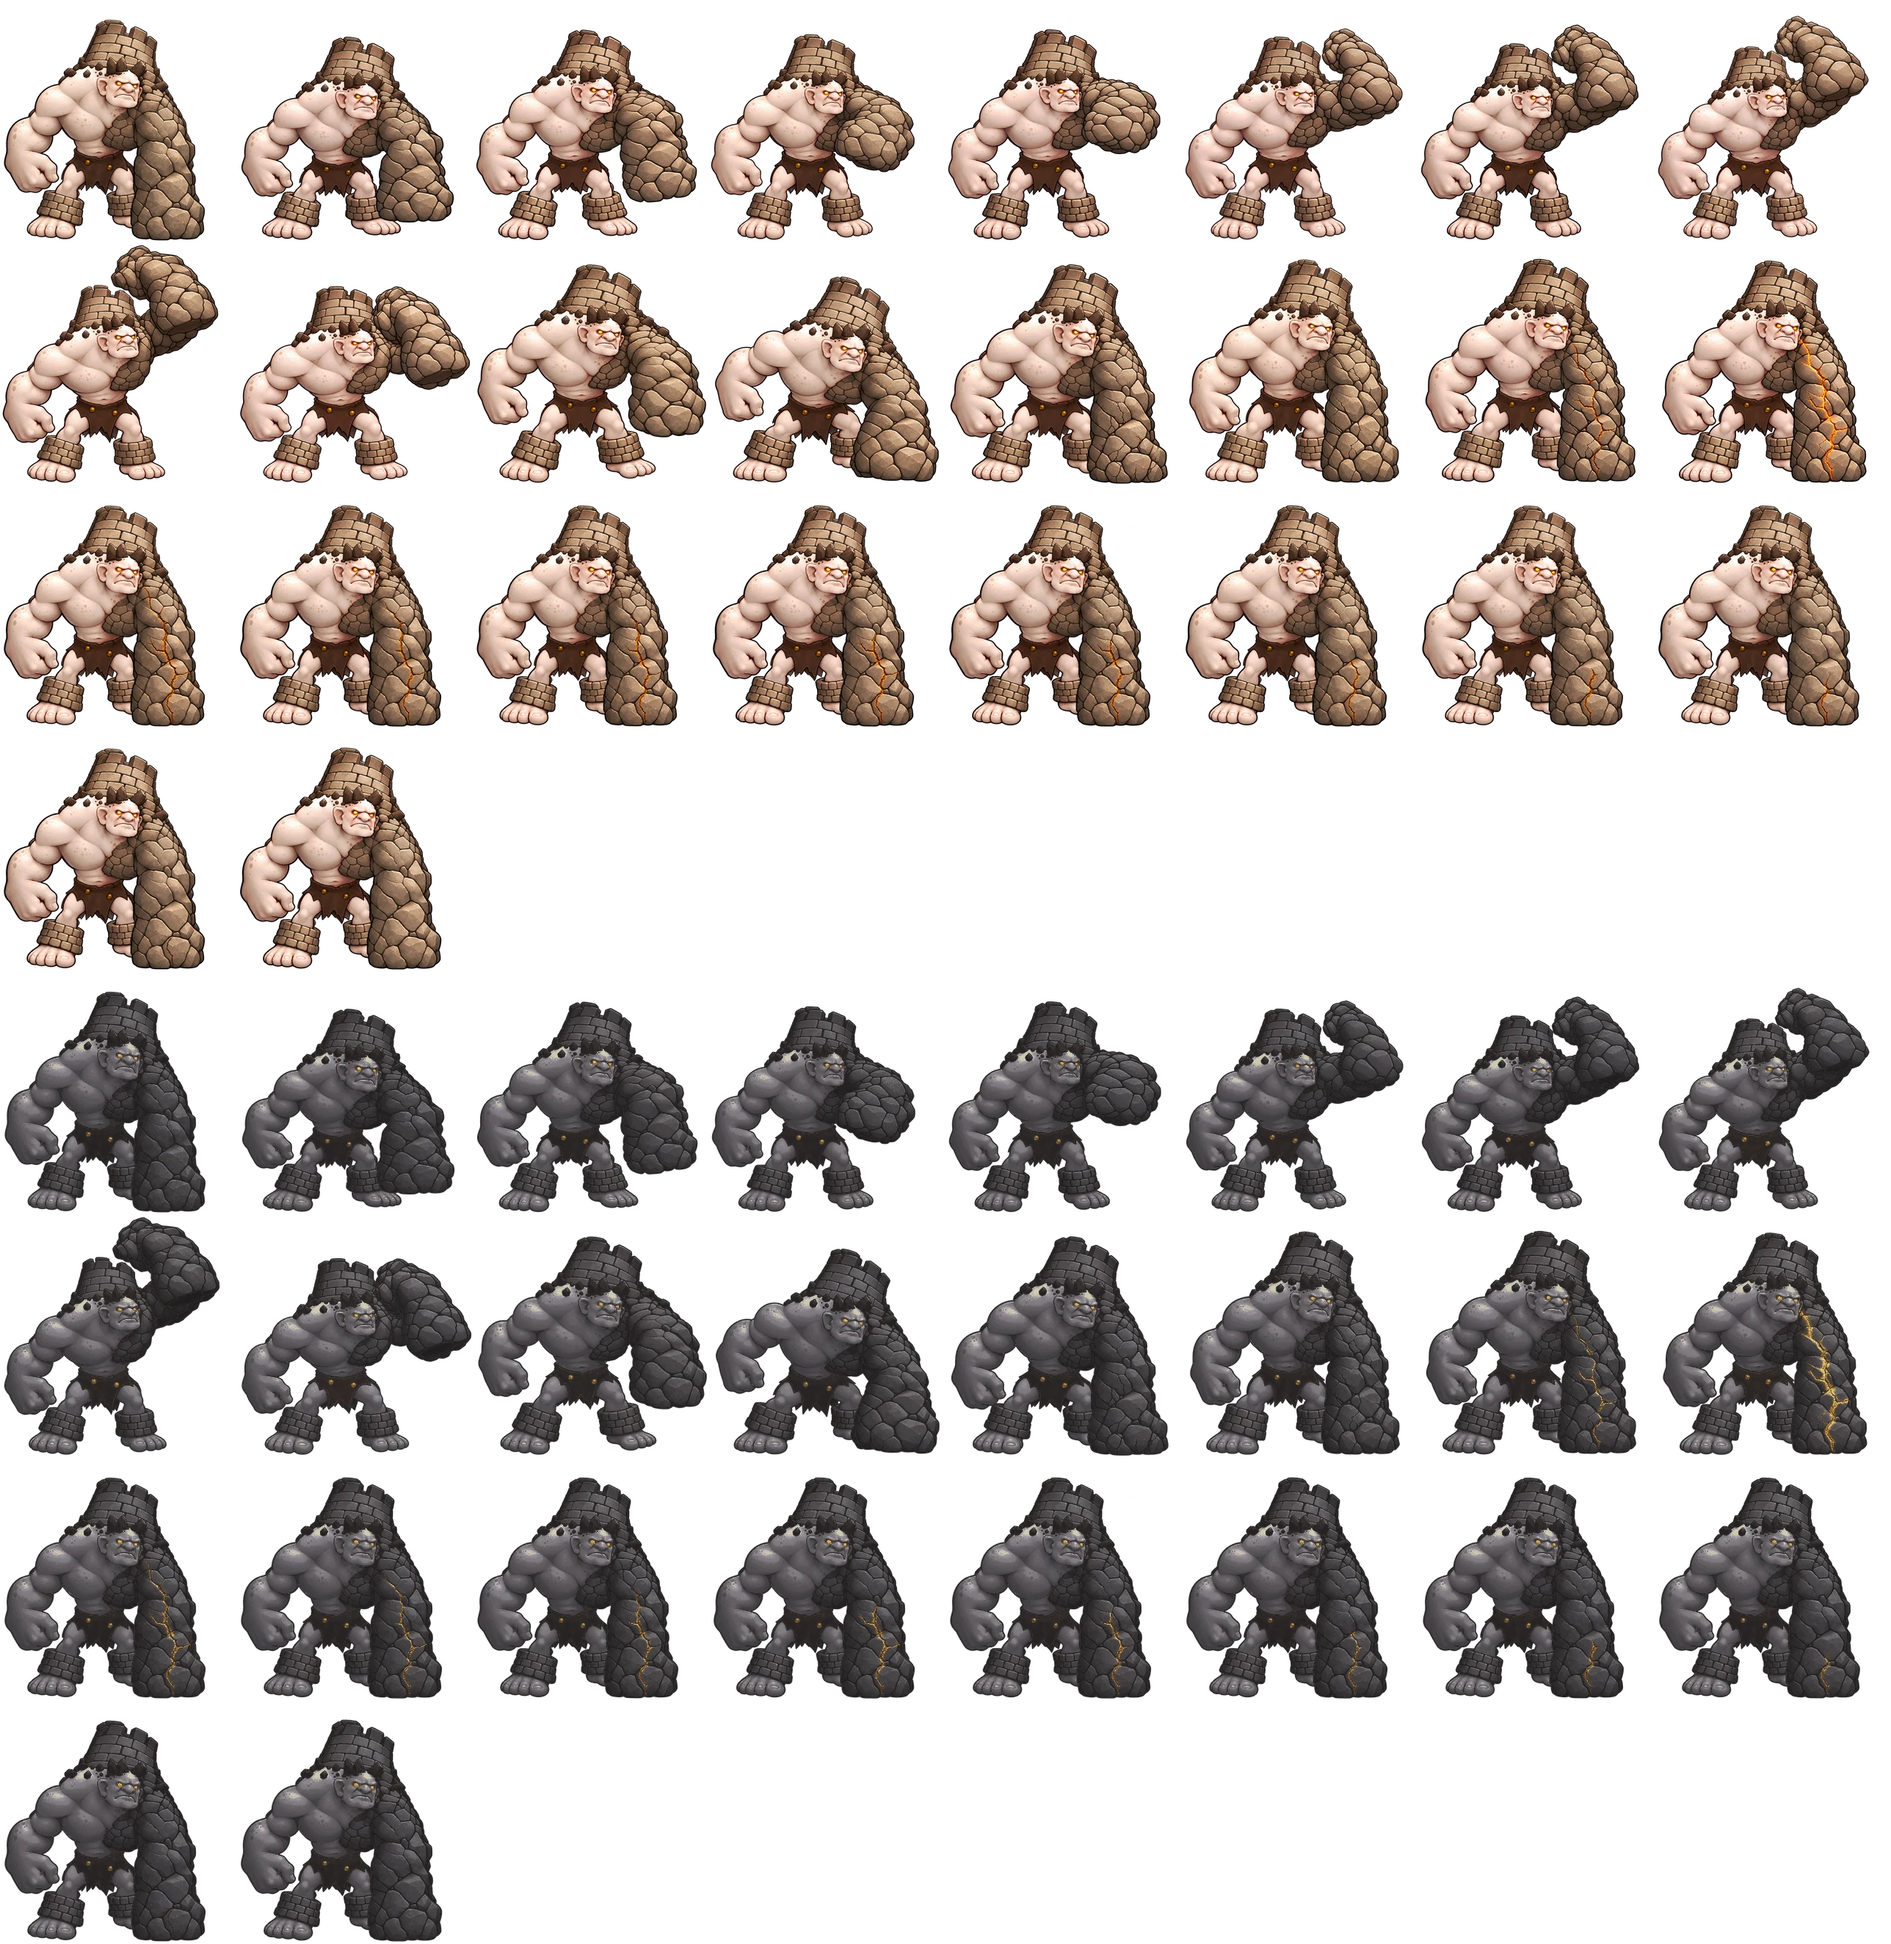
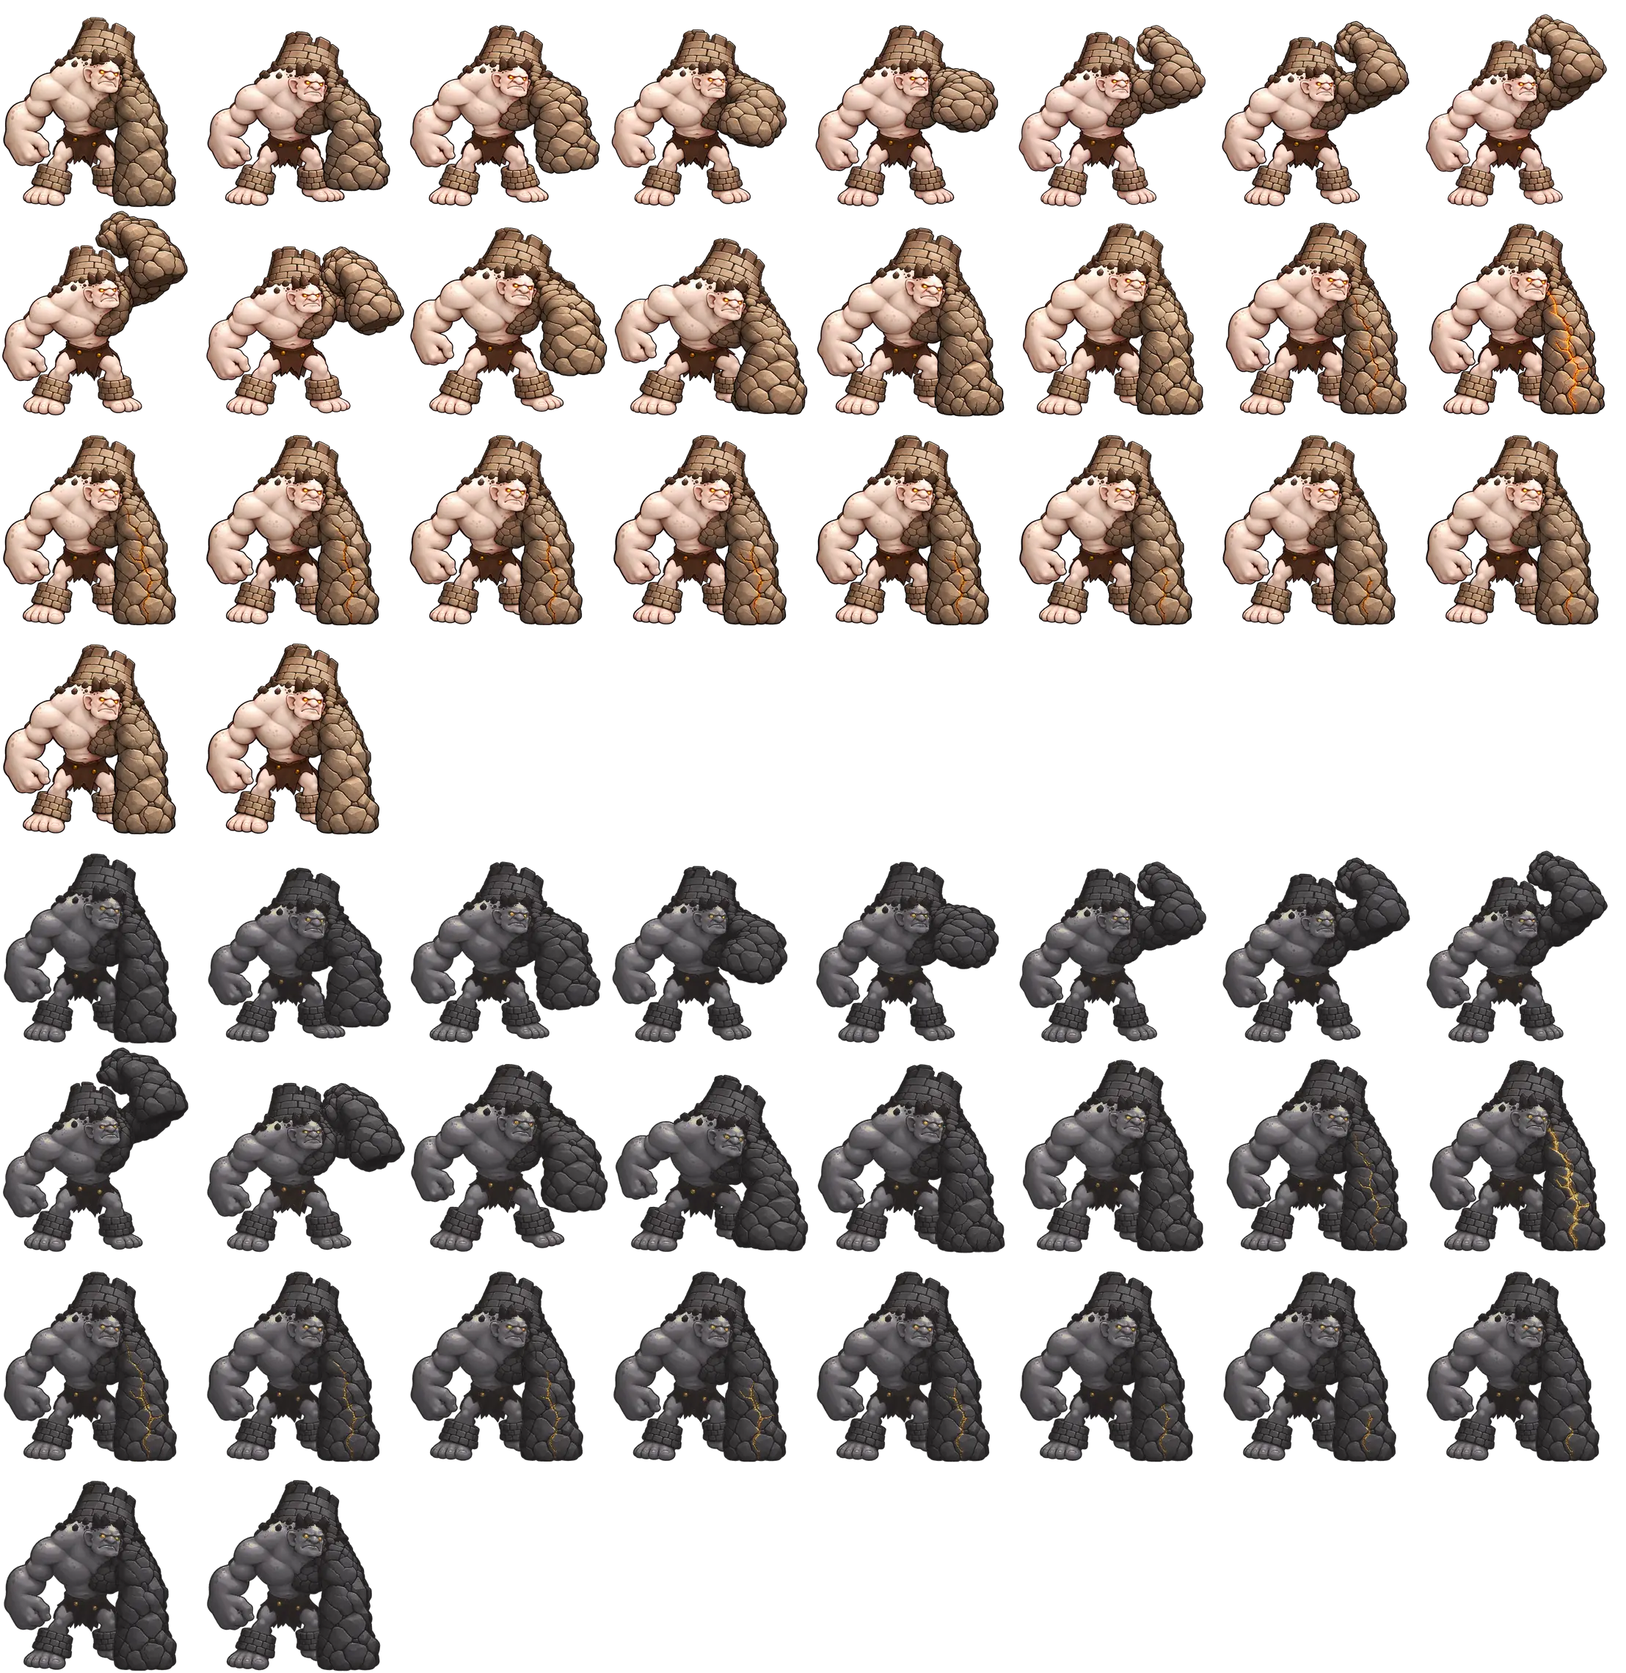
Store the Shadow hand film and the Rook slam atlas at board size
The Shadow hand film was a 2.4 MB lossless WebP with 192 px cells; the board draws a hand at 142 px at most.
The game now loads film-poses-144.webp (325 KB): the same 130 frames at 144 px, quality 75, quantized alpha.
pack-runtime.mjs makes it from the FILM atlas, which stays as the source. The draw code reads the stored
cell size from the image width.

The Rook slam atlas stored each drawing at 0.36 of sprite size with lossless alpha (1.24 MB). clips/build.mjs
now has a scale and an encoding for each clip: the Rook atlas is at 0.31 (his largest board size) with
quality 75 and quantized alpha (494 KB). The Knight atlas and the Rook board sheet do not change.

diff --git a/src/render/effects/dark-gate.ts b/src/render/effects/dark-gate.ts
@@ -10,12 +10,13 @@ export const DARK_SINK_MS = 1500;
 export const DARK_LEAVES = .19;
 const DARK_SETTLED = .8;
 const ATLAS_URL = new URL('./dark-gate.webp', import.meta.url).href;
-const HANDS_URL = new URL('../../../docs/2d-first-pieces/king-shadow/hands/film-poses.webp', import.meta.url).href;
+const HANDS_URL = new URL('../../../docs/2d-first-pieces/king-shadow/hands/film-poses-144.webp', import.meta.url).href;
 type Rect = readonly [number, number, number, number];
 const RIM: Rect = [0, 0, 300, 289], CRACK: Rect = [302, 0, 275, 280], SWIRL: Rect = [579, 0, 200, 200];
 const TENDRILS: readonly Rect[] = [[0, 291, 110, 120], [112, 291, 109, 120], [223, 291, 102, 120], [327, 291, 120, 81]];
 const COLLARS: readonly Rect[] = [[449, 291, 170, 64], [621, 291, 170, 66], [0, 413, 170, 56], [172, 413, 170, 60]];
-// The hand film: 65 frames in 192 px cells, 8 to a row. The ivory hands come first; they read on the ink for both armies.
+// The hand film: 65 frames in 192 px cells, 8 to a row (the file stores each cell at 144 px; the draw keeps 192 px units).
+// The ivory hands come first; they read on the ink for both armies.
 // Frame 0 is open, 16 reach, 32 half clutch, 48 clutch.
 const CELL = 192, COLS = 8, WRIST_X = 96, WRIST_Y = 176;
 const OPEN = 0, REACH = 16, CLUTCH = 48;
@@ -87,11 +88,11 @@ function drawTendrils(ctx: CanvasRenderingContext2D, at: Point, size: number, gr
 /** One bone hand, its wrist on the ink at (x, surface). `rise`, 0..1, is how far it stands out of the ink. */
 function drawHand(ctx: CanvasRenderingContext2D, x: number, surface: number, size: number, rise: number, frame: number, lean: number, flip: boolean) {
   if (!hands || rise <= .01) return;
-  const k = .37 * size, f = Math.round(frame), sx = (f % COLS) * CELL, sy = Math.floor(f / COLS) * CELL;
+  const k = .37 * size, f = Math.round(frame), src = hands.naturalWidth / COLS, sx = (f % COLS) * src, sy = Math.floor(f / COLS) * src;
   ctx.save();
   ctx.beginPath(); ctx.rect(x - 90, surface - 200, 180, 202); ctx.clip();
   ctx.translate(x, surface + (1 - rise) * CELL * k * .95); ctx.rotate(lean); ctx.scale(flip ? -k : k, k);
-  ctx.drawImage(hands, sx, sy, CELL, CELL, -WRIST_X, -WRIST_Y, CELL, CELL);
+  ctx.drawImage(hands, sx, sy, src, src, -WRIST_X, -WRIST_Y, CELL, CELL);
   ctx.restore();
 }
 

diff --git a/tools/character-runtime-package.test.ts b/tools/character-runtime-package.test.ts
@@ -205,6 +205,13 @@ it('keeps each play-time effect texture a WebP of at most 256 KB', () => {
  expect(statSync(resolve('docs/2d-first-pieces/king-stratus/cloud-bank.webp')).size).toBeLessThanOrEqual(320*1024);
 });
 
+// Two sheets of many frames that the game loads in play: the Shadow hand film (130 frames) and the Rook slam clip (52 drawings).
+// Each is stored at the board's largest display size (film-poses-144.webp: pack-runtime.mjs; slam.webp: clips/build.mjs).
+it('keeps the Shadow hand film and the Rook slam atlas small', () => {
+ expect(statSync(resolve('docs/2d-first-pieces/king-shadow/hands/film-poses-144.webp')).size).toBeLessThanOrEqual(352*1024);
+ expect(statSync(resolve('docs/2d-first-pieces/rook/slam.webp')).size).toBeLessThanOrEqual(512*1024);
+});
+
 it('converts each effect texture to WebP with exact alpha and points its module at it', async () => {
  scratch=mkdtempSync(join(tmpdir(),'kingdown-webp-effect-'));const source=join(scratch,'source'),out=join(scratch,'out'),id='e'.repeat(64),dir=join(source,'effects',id);
  mkdirSync(join(source,'assets'),{recursive:true});mkdirSync(join(dir,'assets'),{recursive:true});

diff --git a/docs/2d-first-pieces/clips/README.md b/docs/2d-first-pieces/clips/README.md
@@ -22,7 +22,7 @@ node docs/2d-first-pieces/clips/build.mjs <samples folder>
 
 The samples folder holds the reviewed sample sheets and manifests (`knight-tap-frames-v2.*`, `rook-slam-hq.*`). By default it is `docs/specs/character-animation-samples/preview/assets`. `provenance.json` records the SHA-256 of each source sheet.
 
-The script does not repaint a drawing. It fits one scale and one translation for each clip: the clip's rest drawing against the board's still sprite. It mirrors the Rook as the board does. Each drawing keeps the registration anchor of its sample manifest. The atlas stores each drawing at 0.36 of sprite size, which is more than the board's largest display needs.
+The script does not repaint a drawing. It fits one scale and one translation for each clip: the clip's rest drawing against the board's still sprite. It mirrors the Rook as the board does. Each drawing keeps the registration anchor of its sample manifest. Each clip has its own atlas scale (`factor`). The Knight atlas stores each drawing at 0.36 of sprite size. The Rook atlas stores it at 0.31: the board's largest display (his scale 0.155 at resolution 2). The Rook atlas uses WebP quality 75 and quantized alpha (about 0.5 MB, not 1.2 MB); at board size and at 2x it shows no change.
 
 The Rook slam drawings are a redrawn Rook. So the board's Rook sheet `rook/rook.webp` is the clip's rest drawing (both armies), and the build writes it too. The figure does not change when the clip starts and ends. The build stops if the rest drawing does not fit the sheet windows (`CELLS`, `mirrorOrigin` in `src/render/painted/rook/motion.mjs`).
 

diff --git a/docs/2d-first-pieces/king-shadow/hands/provenance.md b/docs/2d-first-pieces/king-shadow/hands/provenance.md
@@ -13,3 +13,7 @@ FILM returns RGB and forward/backward flow pyramids. Original alpha follows the 
 `film-build.json` records model path, source/output hashes, inference count, registration measures and the numerical warp check. `audit-film.py` independently checks all normalized key frames, gutters, dark opaque pixels and both model warp outputs. Results: `film-audit.json`. `film-alpha-review.png` shows the keys and intermediate frames over both stone colours.
 
 The original ten painted keys remain intact. Runtime uses 65 FILM RGBA frames per army in 192 px cells, with alpha carried by the actual FILM flow fields as described above. Each hand draws one complete frame through its fixed crevice anchor. This is frame interpolation, not an articulated finger rig. Intermediate frames can show softer painted detail in close-up than the original keys.
+
+## Runtime file
+
+The game loads `film-poses-144.webp` (325 KB), not the 2.4 MB lossless `film-poses.webp`. `pack-runtime.mjs` makes it: the same 130 frames in the same grid, each 192 px cell at 144 px, WebP quality 75 with quantized alpha. The board never draws a hand larger than 142 px (the Darkness gate at resolution 2), and at that size and at 2x the two files show no difference. The code keeps 192 px cell units and reads the stored cell size from the image width.
